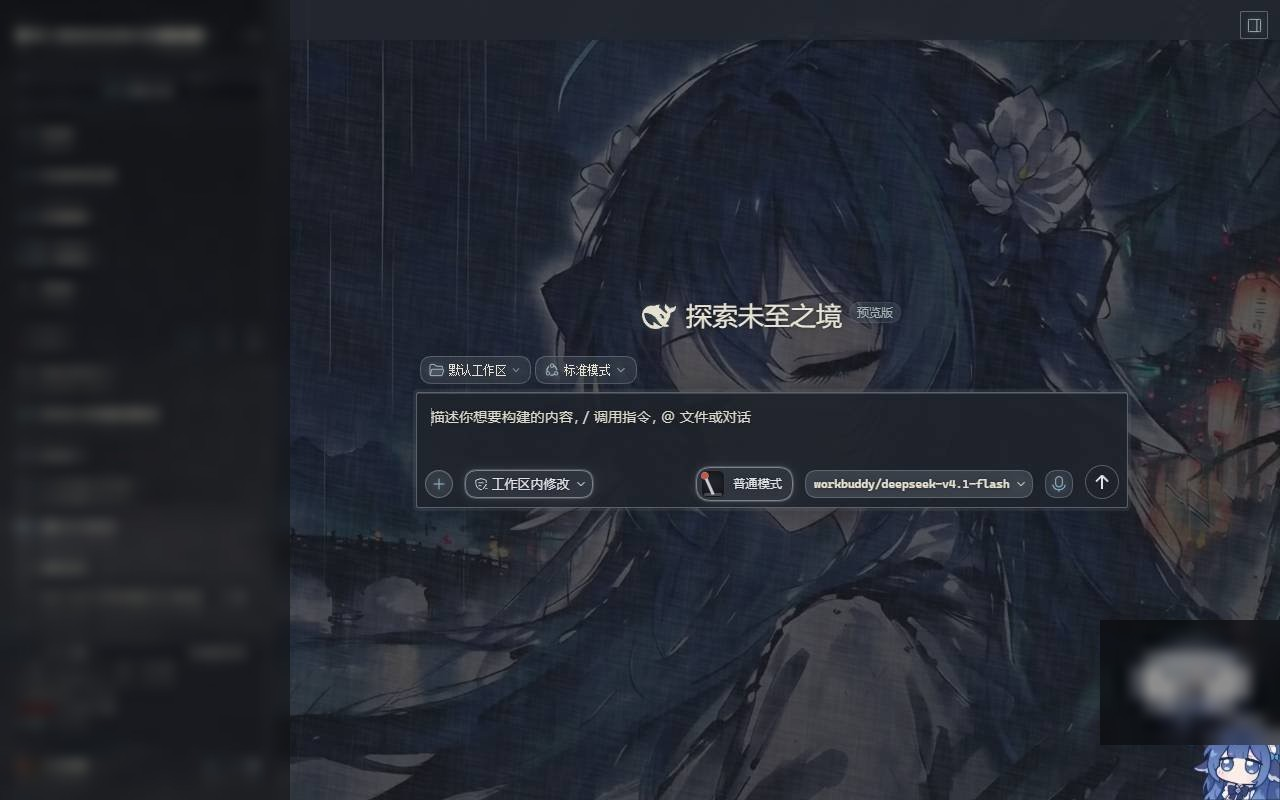
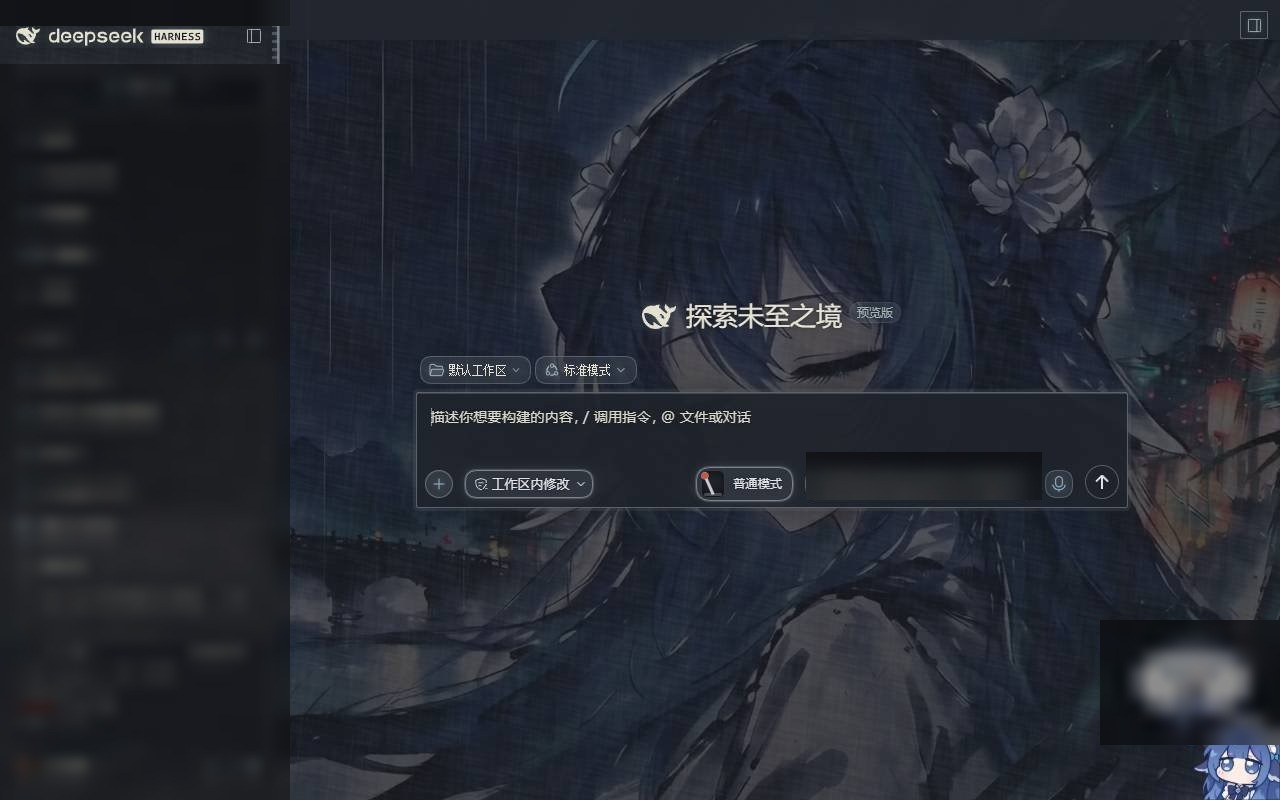
docs: 只保留整套安装、图片去敏调整、模型名打码
用户反馈三点：

1. 去掉「只放皮肤 / 一直循环」的选项
   - 删除「方式二：只放皮肤（手动，无动画）」整节
   - 删除顶部「只复制皮肤文件夹 → 背景一直循环」对照表
   - 安装章节改为单一路径：只跑一键脚本，皮肤与动画插件一起装
   - 标题「方式一：一键安装（推荐，装全套）」→「一键安装」
   - 「配合插件：让背景聊天时才动」→「动画插件（已内置，无需另装）」，
     说明插件就在 plugin/ 目录，脚本自动挂载，无需去别的仓库拿

2. 对比图露出左上角品牌标
   - 原先侧栏整块打码，把「鲸鱼娘·水墨丹青 + 朱印 → deepseek HARNESS」
     这个最关键的改动盖住了
   - 改为：侧栏仍打码，但避开左上角品牌行，让改前/改后的字标清晰可见

3. 输入框右下角模型名打码
   - workbuddy/deepseek-v4.1-flash 属个人环境信息，已模糊覆盖
   - 右下角宠物气泡同样打码

同步更新：safe-before.jpg / safe-after.jpg / before-after.png（含底部摘要换行）
目录结构补上 plugin/ 与两个 install 脚本；顶部快速跳转锚点修正

Changed region(s): [[0.625, 0.5625, 0.8125, 0.625], [0.0, 0.0312, 0.1562, 0.0625], [0.1875, 0.0312, 0.2188, 0.0625]]

diff --git a/README.md b/README.md
@@ -4,7 +4,7 @@
 
 ![改前 / 改后对比](docs/images/before-after.png)
 
-> **只想赶紧装？** 跳到 [📦 安装（三步，含前置依赖）](#-安装三步含前置依赖)，
+> **只想赶紧装？** 跳到 [📦 安装](#-安装)，
 > 或者直接复制 [🤖 让 AI 帮你装](#-懒得动手让-ai-帮你装) 里的提示词。
 
 ---
@@ -36,17 +36,13 @@
 
 ## 📦 安装
 
-> **先说结论：想要「聊天时才动」的完整效果，用一键脚本，它会把皮肤和动画插件一起装好。**
-> 只复制皮肤文件夹也能用，但背景视频会一直循环播放 —— 因为这个效果不在皮肤里，靠插件实现。
-
-| 你装了什么 | 得到什么 |
-| --- | --- |
-| 只放皮肤文件夹 | 字体、配色、去描边、定格帧资源；**背景视频一直循环** |
-| **一键脚本（皮肤 + 插件）** | 上面的全部 + **聊天时才播放、空闲定格第 16 帧** ← 灵魂在这里 |
+> **只有一个安装方式：跑一键脚本。**
+> 它会把皮肤和动画插件一起装好 —— 因为这个皮肤的灵魂（聊天时才动、空闲定格）由插件实现，
+> 单独放个皮肤文件夹是没有这个效果的。
 
 ---
 
-### ✅ 方式一：一键安装（推荐，装全套）
+### 一键安装
 
 先确认 DSH 装过「皮肤中心」插件（**设置 → 皮肤中心** 能打开）。
 如果没有，见本文末尾的 [前置依赖](#前置依赖皮肤中心不是-dsh-自带的) 一节。
@@ -74,42 +70,6 @@ bash install.sh
 > 以后 `git pull` 更新后**不用重装**。
 
 **装完 → 完全退出 DSH 再打开 → 设置 → 皮肤中心 → 选「鲸鱼娘 · 水墨丹青（清晰版）」。**
-
----
-
-### 方式二：只放皮肤（手动，无动画）
-
-不想要动画、只想要字体和配色的话，把皮肤文件夹丢进去就行。
-
-```bash
-# 一条命令（macOS / Linux）
-mkdir -p ~/.dsh/skins && cd ~/.dsh/skins \
-  && curl -L https://github.com/Akina2566/shuimo-danqing-readable/archive/refs/heads/main.tar.gz \
-  | tar xz && mv shuimo-danqing-readable-main shuimo-danqing-readable
-```
-
-Windows：仓库右上角 **Code → Download ZIP** → 解压 → 文件夹改名为
-`shuimo-danqing-readable` → 放进 `%USERPROFILE%\.dsh\skins\`。
-
-正确的目录结构（`skin.json` 必须在这一层）：
-
-```
-~/.dsh/skins/
-└── shuimo-danqing-readable/
-    ├── skin.json      ← 关键，皮肤中心靠它识别
-    ├── skin.css
-    ├── patches.css
-    ├── assets/
-    ├── preview/
-    └── plugin/        ← 动画插件（手动装时可忽略）
-```
-
-两个最常见的错：
-
-| 错误 | 现象 |
-| --- | --- |
-| 多套了一层文件夹 | 皮肤中心里看不到这个皮肤 |
-| 文件夹名不是 `shuimo-danqing-readable` | 同上 |
 
 ---
 
@@ -195,23 +155,23 @@ Windows: %USERPROFILE%\.dsh\skins\<皮肤id>\
 
 ---
 
-## 配合插件：让背景「聊天时才动」
+## 动画插件（已内置，无需另装）
 
-本皮肤自带一张定格帧 `assets/sm-idle-16.webp`。配合
-[dsh-plugin-bg-motion](https://github.com/Akina2566/dsh-plugin-bg-motion)，可做到：
+「聊天时才动」由插件 `dsh-plugin-bg-motion` 实现，它**已经放在本仓库的 `plugin/` 目录里**，
+一键安装脚本会自动装好并挂进 profile，你不需要再去别的仓库拿。
+
+它做的事：
 
 - **聊天进行中** → 背景播放完整 25.33 秒视频
-- **其余时间** → 定格在第 16 帧（闭眼、有雨丝与花），且压暗到与静帧一致
+- **其余时间** → 定格在第 16 帧（闭眼、有雨丝与花），并压暗到与静帧一致
 
-安装插件（可选）：
+插件源码位置：`plugin/`（`lib/` 为已构建产物，`src/` 为源码）。
+装好后想单独更新它：
 
 ```bash
-git clone https://github.com/Akina2566/dsh-plugin-bg-motion.git \
-  ~/dsh-plugin-bg-motion
-# 然后按插件 README 挂到 profile 的 bundles 里，重启 DSH 生效
+git pull                      # 拉到最新
+# 若安装时是复制的（而非软链），重跑一次安装脚本即可同步
 ```
-
-不装插件也完全可用：皮肤会正常显示背景视频（一直播放）。
 
 ---
 
@@ -396,6 +356,13 @@ body span:has(> [data-slot='sidebar.brand.name'])::after { content: none; }
 │   ├── ORIGINAL-README.zh.md        # 原作完整设计文档（中文）
 │   ├── ORIGINAL-README.md           # 原作完整设计文档（英文）
 │   └── README.en.md                 # 本文件英文版
+├── plugin/                          # 动画插件（已内置，安装脚本自动挂载）
+│   ├── lib/                         # 已构建产物（client.js / index.js）
+│   ├── src/                         # 源码
+│   ├── cordis.patch.yml             # 插件行声明
+│   └── package.json
+├── install.ps1                      # 一键安装（Windows）
+├── install.sh                       # 一键安装（macOS / Linux）
 ├── ATTRIBUTION.md                   # 归属与来源
 ├── LICENSE                          # CC BY-NC-SA 4.0
 └── README.md                        # 本文件
